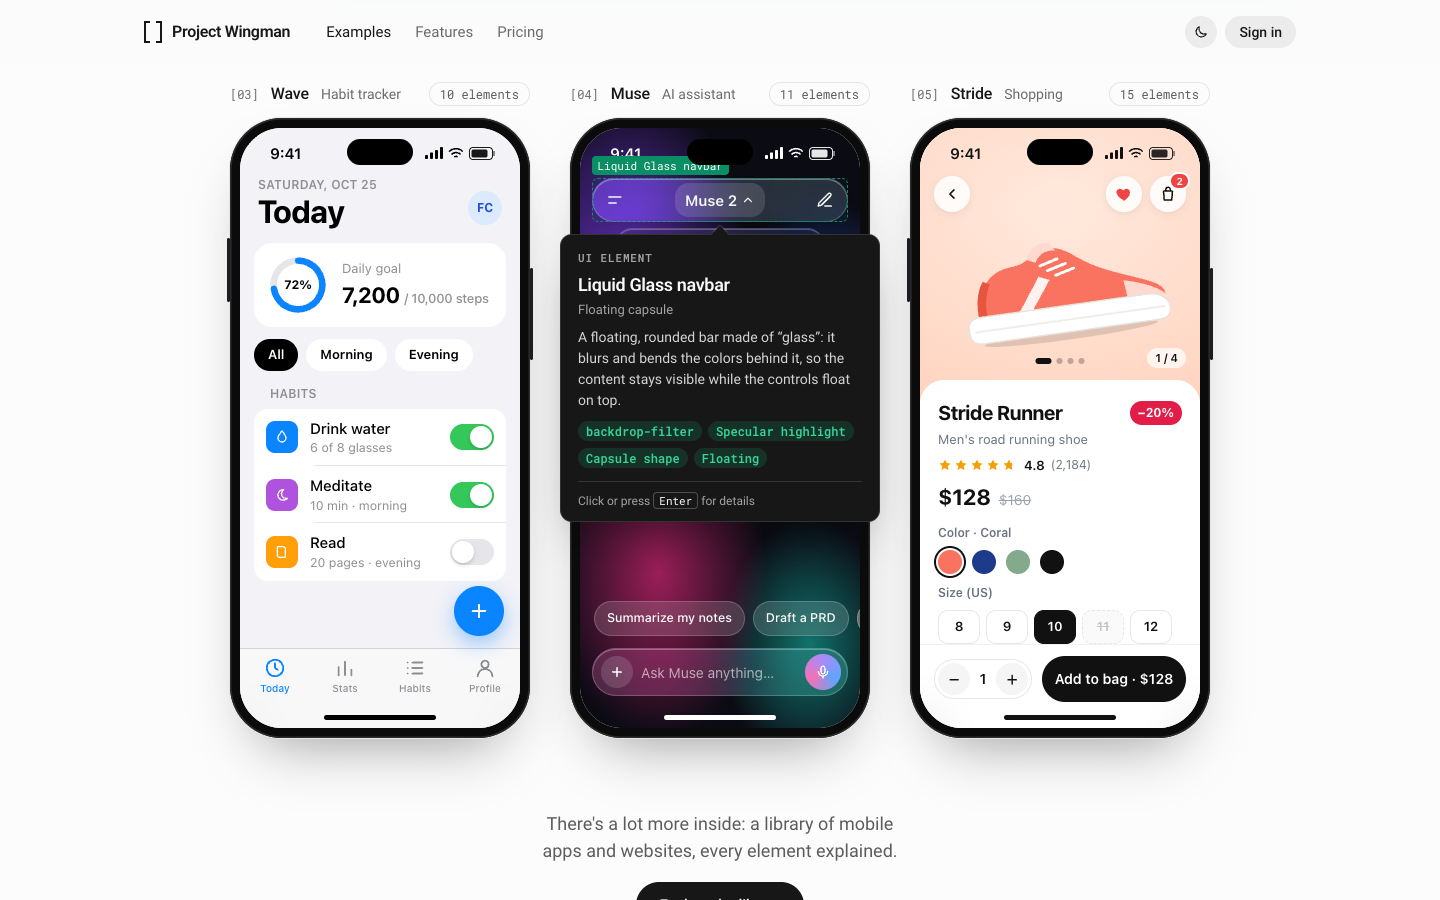
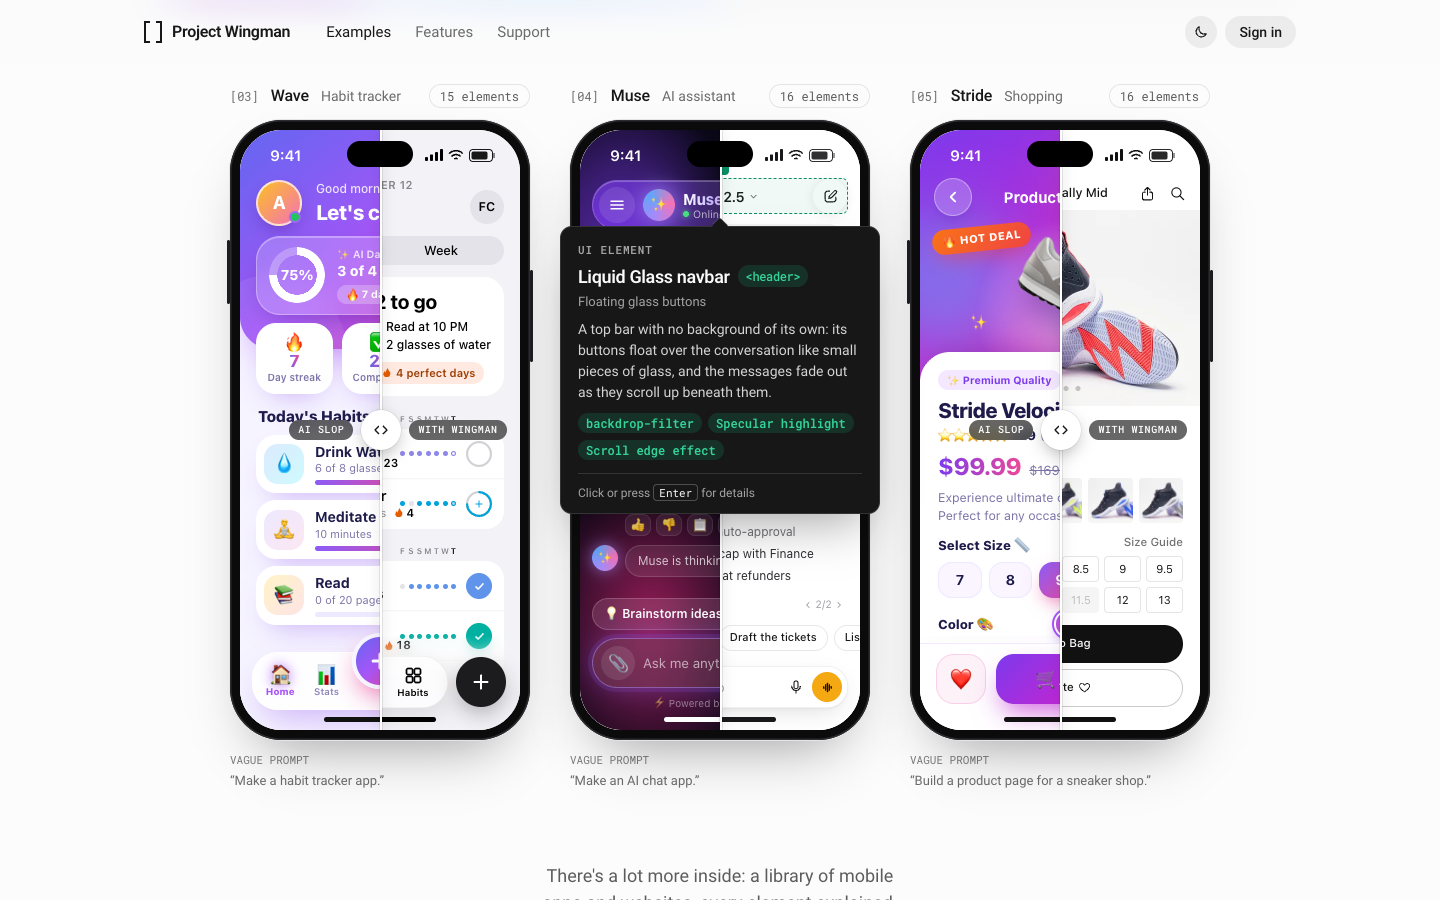
Describe the before/after landing in the README and design notes
New README screenshots show the comparisons, and the design notes cover
the slider, the support model and the rebuilt phone examples.

diff --git a/DESIGN.md b/DESIGN.md
@@ -24,24 +24,30 @@ Last updated: 2026-10-28 · Status: Applied to the landing page
 ## Page structure (information architecture)
 
 ```
-Header        Logo · Examples · Features · Pricing ········ Theme · Sign in   (sticky)
-Hero          [ PROJECT WINGMAN ] · “Every PM needs a wingman.” · See examples / Get started
-[01] Examples Acme (marketing) · Orbit (analytics dashboard) · Wave (habits) · Muse (AI) · Stride (shopping)
+Header        Logo · Examples · Features · Support ········ Theme · Sign in   (sticky)
+Hero          [ PROJECT WINGMAN ] · “Every PM needs a wingman.” · See examples / Get started free
+[01] Examples Before/after: Acme (marketing) · Orbit (analytics dashboard) · Wave (habits) · Muse (AI) · Stride (shopping)
 [02] Features A slowly moving marquee (with a pause button)
-[03] Pricing  Free · Pro · Team (placeholder prices)
+[03] Support  A free account · Sponsor on GitHub
 Footer        Text links · Back to top
 ```
 
-Other pages: `/sign-in` and `/sign-up` (the header's Sign in and the plans' buttons lead here) and the signed-in library: `/app/mobile`, `/app/web` and one page per example at `/app/<platform>/<id>`, plus the brief at `/app/brief`. Once signed in, Sign in becomes Workspace in the header and the footer. Under the landing page's examples, “Explore the library” leads in.
+Other pages: `/sign-in` and `/sign-up` (the header's Sign in and the free-account buttons lead here) and the signed-in library: `/app/mobile`, `/app/web` and one page per example at `/app/<platform>/<id>`, plus the brief at `/app/brief`. Once signed in, Sign in becomes Workspace in the header and the footer. Under the landing page's examples, “Explore the library” leads in.
 
 - **The header isn't a bar, but it's sticky:** Fully transparent at the top of the page; as you scroll down it takes on a borderless frosted-glass background. Links go to sections, the logo goes back to the top, and the link of the section in view gets darker. Sections stop below the header thanks to `scroll-margin-top`.
 - **Footer:** Not a bar; text links sitting on the page background.
-- **The home page shows only five example projects:** The full library and the signed-in areas come in a later phase.
+- **The home page shows only five example projects:** The full library opens after sign-in.
 - **Example layout:**
   - Sites (Acme, Orbit): Each in its own scroll scene, full page width, one after another.
     - The window pins below the header. The scene grows by as much as the content overflows, and page scrolling is passed one to one into the window.
     - Users never scroll inside the window. Because the content really scrolls (`overflow: hidden` + `scrollTop`), Acme's sticky glass navbar keeps working.
   - Phones: All three in one row at every width. If they don't fit, they shrink together (`--phone-scale`; ~0.35 on a phone). In a narrow row, each heading keeps only the index and the name.
+- **Before/after:** every example is a comparison (`src/showcase/Compare.tsx`), the story of the product in one gesture.
+  - The AI slop version a vague prompt produces (`src/demos/slop/`) lies on top of the Wingman version and is cut at a vertical line. Drag the line right and the slop grows; drag it left and the Wingman version grows. It starts in the middle and sways once when it first comes into view (not with reduced motion).
+  - The line is white with a soft shadow, so it reads on any content. Its round knob is a slider: arrow keys move it by 5%, Page Up/Down by 20%, Home and End go to the edges. Small "AI slop" and "With Wingman" pills ride on each side of the knob, so they never cover an app's corners, and fade when their side gets narrow.
+  - Only the Wingman side is inspectable; the slop side is a picture, hidden from screen readers. In the sites both versions scroll together, and the line stays put over the window.
+  - Above each site (and under each phone), the vague prompt behind its slop side.
+- **Support:** Wingman is free with an account (the library and the brief builder); a second card asks people who find it useful to sponsor it on GitHub, one-time or monthly.
 
 ## Inspection interaction
 
@@ -55,7 +61,7 @@ The balloon is narrow in preview (name, summary, term chips) and wide when pinne
 
 In the scaled-down phones and in windows settling into place, the outline and the name tag are drawn at the inverse scale: the outline stays thin and the tag stays readable.
 
-**Animated demos pause while inspected.** Muse's dropdown opens and closes on its own when idle. It holds still while the pointer is over the example, keyboard focus is inside it or a balloon is open, so the menu itself can be inspected too. Demos read this state with `useInspectActivity()`.
+**Animated demos pause while inspected.** Motion that runs on its own (Chatter's typing dots, Flick's spinning sound disc) holds still while the pointer is over the example, keyboard focus is inside it or a balloon is open. Demos read this state with `useInspectActivity()`. Muse uses it the other way round: nothing there moves on its own, and pointing at (or tapping) the model name opens the model menu, which stays open until the inspection ends, so the menu itself can be inspected too.
 
 ## Library
 
@@ -89,16 +95,17 @@ In the scaled-down phones and in windows settling into place, the outline and th
 
 ## Mobile demos
 
-- **Wave:** The classic iOS language. Grouped background, list rows, toggle switches, a FAB and a bottom tab bar. In dark mode it uses iOS's dark system colors: black background, `#1c1c1e` cells, darker separators and the brighter `#30d158` switch.
-- **Muse:** A newer kind of app: an AI assistant in the Liquid Glass style. A glass navbar floating over a dark, colorful background, a glass dropdown that opens and closes on its own, chat bubbles, a typing indicator, glass suggestion chips, a glass composer and a voice button with a color ring.
-  - Liquid Glass recipe: `backdrop-filter: blur() saturate(180%)`, a translucent white background, a thin white border and a highlight along the top edge made with an inset shadow.
-- **Stride:** A shopping product page. A must-have in the collection, because it gathers the elements PMs most often look up by name on a single screen:
-  - Photo gallery and pagination dots.
-  - Count badge, favorite button, discount badge and struck-through price.
-  - Star rating, color and size pickers (including a sold-out size).
-  - Quantity stepper and a sticky buy bar.
-  - A toast that comes and goes on its own (stays visible while inspected).
-  - In dark mode: a warm dark gallery behind the coral shoe, a dark details panel, and the selections (size, color ring, Add to bag) flip to light.
+- **Wave:** A habit tracker's Today screen in the iOS idiom. A large title, a day/week segmented control, a summary card with a segmented progress ring and the streak, habit rows under two section headers, Tonight and Done (icon badge, week dots, check button), a glass tab bar and a FAB.
+  - iOS's grouped surfaces: a gray page with white cards in light mode, black with `#1c1c1e` cards in dark mode, in the iOS system font.
+  - The chrome stays neutral; color belongs to the habits. Each takes the color of its time of day, from dawn coral to night indigo: six OKLCH hues with the same lightness and chroma, so none shouts louder than another.
+- **Muse:** An AI assistant built like the best chat apps on the phone. A calm page, the user's message in a soft gray bubble, and the answer set as text without a bubble: a heading, a reasoning disclosure, a cited source, a small table, a checklist, then message actions and follow-up suggestions. A model menu, a composer and a voice button.
+  - The top bar follows iOS 26's Liquid Glass: no bar of its own, just round glass buttons floating over the conversation, which fades out beneath them. Recipe: `backdrop-filter: blur() saturate(180%)`, a translucent background, a thin border and a highlight along the top edge made with an inset shadow.
+  - One accent, saffron, belongs to Muse itself: its mark, the highlighted figure, the done checkbox and the voice button, always with near-black glyphs on it.
+- **Stride:** A sneaker's product page, laid out like the Nike app's. It gathers the elements PMs most often look up by name on a single screen:
+  - A full-width product photo on a pale gray studio backdrop with page dots, a navigation bar with back, share and search buttons, and a badge.
+  - The product title, the sale price with the struck-through original, photo swatches of the other colors and a size grid with sold-out sizes.
+  - A size-guide text link and two stacked pill buttons (Add to Bag, Favorite).
+  - Color comes from the photos; the one accent, a cobalt blue, marks the saving. The photo looks the same in both themes, so the page dots drawn on it stay dark in both.
 
 ## Color tokens
 
@@ -107,7 +114,7 @@ All of them live in `src/styles/tokens.css` and are defined with `light-dark(lig
 | Token | Light | Dark | Use |
 | --- | --- | --- | --- |
 | `--color-bg` | `#fcfcfc` | `#141414` | Page background |
-| `--color-surface` | `#ffffff` | `#1a1a1a` | Cards, plans |
+| `--color-surface` | `#ffffff` | `#1a1a1a` | Cards |
 | `--color-surface-2` | `#f5f5f5` | `#1c1c1c` | Feature cards, window title bar |
 | `--color-text` | `#171717` | `#fafafa` | Body text |
 | `--color-text-muted` | `#5c5c5c` | `#a3a3a3` | Supporting text |
@@ -150,7 +157,7 @@ Typefaces and metrics are taken one to one from LayerZero.
   - Features marquee: Two identical groups sit end to end and drift left by one group's width every 80 seconds (~25–30 px/s); the edges fade out softly. It stops under the pointer or with the button.
   - The inspection outline slides between elements in 120 ms.
   - Theme changes cross-fade smoothly with View Transitions where supported.
-  - With `prefers-reduced-motion`, the lines stay still and no shooting star appears, Muse's menu stays open, the Features marquee doesn't move (the cards sit in rows) and windows don't grow into place; other animations and smooth scrolling stop too. In the site scenes the content still moves with the page, at the same speed as normal scrolling.
+  - With `prefers-reduced-motion`, the lines stay still and no shooting star appears, the before/after line doesn't sway, the Features marquee doesn't move (the cards sit in rows) and windows don't grow into place; other animations and smooth scrolling stop too. In the site scenes the content still moves with the page, at the same speed as normal scrolling.
 
 ## Accessibility notes
 

diff --git a/README.md b/README.md
@@ -11,27 +11,34 @@ understand. Next, it will write that brief from everyday descriptions like “th
 
 ## A look inside
 
-Hover anything in the examples to learn what it's called. Click to pin the full explanation: how it looks, how it
-behaves, and the exact CSS behind it. The examples switch to dark mode with the page (products that are dark by design
-stay dark), and the balloons show the values for the theme you're in.
+Each example is a before/after: drag the line to compare the AI slop a vague prompt produces with the same product
+built from a Wingman brief. Hover anything on the Wingman side to learn what it's called. Click to pin the full
+explanation: how it looks, how it behaves, and the exact CSS behind it. The examples switch to dark mode with the page
+(products that are dark by design stay dark), and the balloons show the values for the theme you're in.
 
 <picture>
   <source media="(prefers-color-scheme: dark)" srcset="docs/screenshots/inspect-dark.png">
-  <img alt="The Acme example pinned in its scroll scene: its product screenshot passes under the frosted-glass navbar, whose explanation is open" src="docs/screenshots/inspect-light.png">
+  <img alt="The Acme example in its scroll scene, split by the before/after line: the AI slop version on the left, the Wingman version on the right with its frosted-glass navbar's explanation pinned" src="docs/screenshots/inspect-light.png">
 </picture>
 
-Three mobile apps side by side, with a preview of Muse's Liquid Glass navbar:
+Three mobile apps side by side, each split between its AI slop and Wingman versions, with a preview of Muse's Liquid
+Glass navbar:
 
 <picture>
   <source media="(prefers-color-scheme: dark)" srcset="docs/screenshots/phones-dark.png">
-  <img alt="The Wave, Muse and Stride phone examples in one row, with a balloon describing the Liquid Glass navbar" src="docs/screenshots/phones-light.png">
+  <img alt="The Wave, Muse and Stride phone examples in one row, each split down the middle between the AI slop version and the Wingman version, with a balloon describing Muse's Liquid Glass navbar" src="docs/screenshots/phones-light.png">
 </picture>
 
 ## Current status: landing page, sign-in, the library and the brief
 
-An English landing page with a sticky header (with a theme toggle), a hero, examples, feature cards, pricing and a
-footer. The examples section has five projects (a marketing site, an analytics dashboard and three mobile apps), and
-nearly every element shows its name on hover, a summary after a short pause and the full explanation on click.
+An English landing page with a sticky header (with a theme toggle), a hero, examples, feature cards, a support section
+and a footer. The examples section has five projects (a marketing site, an analytics dashboard and three mobile apps),
+each a before/after comparison with a line to drag: on the left, the AI slop a vague prompt produces; on the right, the
+same product built from a Wingman brief, where nearly every element shows its name on hover, a summary after a short
+pause and the full explanation on click.
+
+Wingman is free: an account opens the library and the brief builder. People who find it useful can sponsor it on
+GitHub (`SPONSOR_HREF` in `src/landing/links.ts`; GitHub Sponsors has to be set up on that account).
 
 Sign-in (`/sign-in`) and sign-up (`/sign-up`) pages lead to the library (`/app/mobile`, `/app/web`): mobile apps and
 websites in two tabs, each a fictional product built from the patterns of well-known ones (“inspired by” Spotify,
@@ -45,8 +52,8 @@ element list. The brief page (`/app/brief`) adds what you're building and a note
 Markdown to copy or download: each element's look and behavior with the terms and values to use, followed by acceptance
 criteria. The brief is put together from the element descriptions (no LLM yet) and kept in the browser.
 
-Out of scope for now (later phases): a real auth backend, payments and subscriptions (plan prices are placeholders),
-and a real LLM integration (writing the brief from a plain description).
+Out of scope for now (later phases): a real auth backend (sign-ups open once it exists) and a real LLM integration
+(writing the brief from a plain description).
 
 ## Before going live
 
@@ -86,12 +93,13 @@ setting (light or dark) and can be switched from the header. All visual decision
 
 ```
 src/
-  landing/     Landing page sections: header, theme toggle, hero, examples, feature cards, pricing, footer
+  landing/     Landing page sections: header, theme toggle, hero, examples, feature cards, support, footer
   auth/        Sign-in and sign-up pages, the session store (no backend yet) and the dev account
   workspace/   The signed-in area: the library's tabs, search and grids, and each example's page with its glossary
   brief/       The brief: its store (in localStorage), the Markdown writer, the Add to brief button and the brief page
   library/     The library: types, the registry, and one folder per example (mobile/<id>, web/<id>)
-  demos/       The landing page's five examples: AcmeSite, OrbitDashboard, WaveApp, MuseApp, StrideApp (+ StatusBar)
+  demos/       The landing page's five examples: AcmeSite, OrbitDashboard, WaveApp, MuseApp, StrideApp (+ StatusBar),
+               and in slop/ the AI slop version each one is compared with
   catalog/     Element descriptions (English, typed data) for those five, plus elements every phone shares
   inspector/   The “inspect element” layer: InspectSurface, explainer balloon, positioning
   showcase/    Frames and the interaction guide: the browser frame as a scroll scene (useScrollScene), a scalable phone
